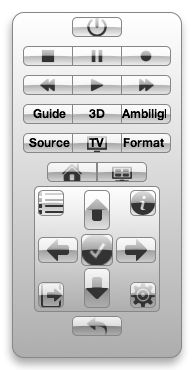
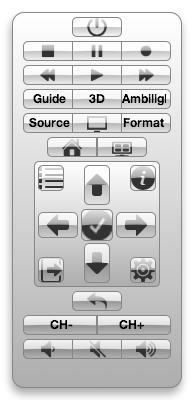
Added channel and sound buttons

diff --git a/philips-remote.dcproj/project/widget.wdgt/main.html b/philips-remote.dcproj/project/widget.wdgt/main.html
@@ -8,6 +8,7 @@
     <link rel="stylesheet" href="main.css">
     <script type="text/javascript" src="Parts/parts.js" charset="utf-8"></script>
     <script type="text/javascript" src="localizedStrings.js" charset="utf-8"></script>
+    <script type="text/javascript" src="rc.js" charset="utf-8"></script>
     <script type="text/javascript" src="main.js" charset="utf-8"></script>
 </head>
 <body onload="load();" apple-part="com.apple.Dashcode.part.StackLayout">
@@ -15,7 +16,6 @@
         <img id="frontImg" src="Parts/Images/front.png" alt="" apple-locked="true" apple-part="com.apple.Dashcode.part.frontimage" apple-style="image-theme: 1; image-shape: 3; image-opacity: 1.00; image-top-color: 1.0000,1.0000,1.0000; image-bottom-color: 0.6154,0.6154,0.6154; image-radius: 12,12,12,12; image-border: 1; image-border-color: 0.5294,0.5294,0.5294; image-border-width: 1; shine-strength: 0.9; shine-alpha-level: 0.67; shine-height: 0.50; glass-arc-height: 0.06; shadow-include-shadow: 1; shadow-blur: 9.00; shadow-offset: -1.00,-6.00; shadow-color: 0.0000,0.0000,0.0000,0.3333;">
         <div id="rectangleShape" apple-part="com.apple.Dashcode.part.roundedrectangleshape" class="apple-no-children" apple-style="image-theme: 1; image-shape: 3; image-button-type: 3; image-opacity: 1.00; image-top-color: 1,1,1,1; image-bottom-color: 0.6154,0.6154,0.6154,1; image-radius: 5,5,5,5; image-border: 1; image-border-color: 0.5294,0.5294,0.5294,1; image-border-width: 1; shine-strength: 0.90; shine-alpha-level: 0.67; shine-height: 0.50; glass-arc-height: 0.06; embossed-on: 0; embossed-depth: 1; embossed-shadow: 0.68; embossed-highlight: 0.3; shadow-include-shadow: 0;"></div>
         <div class="apple-no-children" id="info" apple-part="com.apple.Dashcode.part.infobutton" apple-default-image-visibility="hidden"></div>
-        <div id="extend" apple-part="com.apple.Dashcode.part.infobutton" class="info apple-no-children" apple-default-image-visibility="hidden"></div>
         <div id="box0" apple-part="com.apple.Dashcode.part.box">
             <div id="bPower" apple-part="com.apple.Dashcode.part.roundedtextbutton" class="apple-no-children" apple-style="image-theme: 2; image-shape: 3; image-button-type: 0; image-opacity: 1.00; image-top-color: 1,1,1,1; image-bottom-color: 0.6154,0.6154,0.6154,1; image-radius: 5,5,5,5; image-border: 1; image-border-color: 0.5294,0.5294,0.5294,1; image-border-width: 1; shine-on: 1; shine-strength: 0.90; shine-alpha-level: 0.67; shine-height: 0.50; glass-arc-height: 0.06; image-include-custom: 1; image-custom-image-path: bP.png; image-custom-center: 1; image-custom-resize: 2; shadow-include-shadow: 0;"></div>
         </div>
@@ -43,10 +43,7 @@
             <div id="bLeft5" apple-part="com.apple.Dashcode.part.roundedleftbutton" class="apple-no-children" apple-style="image-theme: 2; image-shape: 5; image-button-type: 0; image-opacity: 1.00; image-top-color: 1,1,1,1; image-bottom-color: 0.6154,0.6154,0.6154,1; image-radius: 5,-1,5,-1; image-border: 1; image-border-color: 0.5294,0.5294,0.5294,1; image-border-width: 1; shine-on: 1; shine-strength: 0.90; shine-alpha-level: 0.67; shine-height: 0.50; glass-arc-height: 0.06; embossed-on: 0; embossed-depth: 1; embossed-shadow: 0.68; embossed-highlight: 0.3; image-include-custom: 1; image-custom-image-path: bLeft5.png; image-custom-center: 1; image-custom-resize: 2; shadow-include-shadow: 0;"></div>
             <div id="bRight5" apple-part="com.apple.Dashcode.part.roundedrightbutton" class="apple-no-children" apple-style="image-theme: 2; image-shape: 6; image-button-type: 0; image-opacity: 1.00; image-top-color: 1,1,1,1; image-bottom-color: 0.6154,0.6154,0.6154,1; image-radius: -1,5,-1,5; image-border: 1; image-border-color: 0.5294,0.5294,0.5294,1; image-border-width: 1; shine-on: 1; shine-strength: 0.90; shine-alpha-level: 0.67; shine-height: 0.50; glass-arc-height: 0.06; image-include-custom: 1; image-custom-image-path: bRight5.png; image-custom-center: 1; image-custom-resize: 2; shadow-include-shadow: 0;"></div>
         </div>
-        <div id="box6" apple-part="com.apple.Dashcode.part.box">
-            <div id="bBack" apple-part="com.apple.Dashcode.part.roundedtextbutton" class="apple-no-children" apple-style="image-theme: 2; image-shape: 3; image-button-type: 0; image-opacity: 1.00; image-top-color: 1,1,1,1; image-bottom-color: 0.6154,0.6154,0.6154,1; image-radius: 5,5,5,5; image-border: 1; image-border-color: 0.5294,0.5294,0.5294,1; image-border-width: 1; shine-on: 1; shine-strength: 0.90; shine-alpha-level: 0.67; shine-height: 0.50; glass-arc-height: 0.06; image-include-custom: 1; image-custom-image-path: bP1.png; image-custom-center: 1; image-custom-resize: 2; shadow-include-shadow: 0;"></div>
-        </div>
-        <div id="box7" apple-part="com.apple.Dashcode.part.roundedbox">
+        <div id="box6" apple-part="com.apple.Dashcode.part.roundedbox">
             <div id="bUp" apple-part="com.apple.Dashcode.part.roundedtextbutton" class="apple-no-children" apple-style="image-theme: 2; image-shape: 3; image-button-type: 0; image-opacity: 1.00; image-top-color: 1,1,1,1; image-bottom-color: 0.6154,0.6154,0.6154,1; image-radius: 5,5,5,5; image-border: 1; image-border-color: 0.5294,0.5294,0.5294,1; image-border-width: 1; shine-on: 1; shine-strength: 0.90; shine-alpha-level: 0.67; shine-height: 0.50; glass-arc-height: 0.06; embossed-on: 0; embossed-depth: 1; embossed-shadow: 0.68; embossed-highlight: 0.3; image-include-custom: 1; image-custom-image-path: button1.png; image-custom-center: 1; image-custom-resize: 2; shadow-include-shadow: 0;"></div>
             <div id="bRight" apple-part="com.apple.Dashcode.part.roundedtextbutton" class="apple-no-children" apple-style="image-theme: 2; image-shape: 3; image-button-type: 0; image-opacity: 1.00; image-top-color: 1,1,1,1; image-bottom-color: 0.6154,0.6154,0.6154,1; image-radius: 5,5,5,5; image-border: 1; image-border-color: 0.5294,0.5294,0.5294,1; image-border-width: 1; shine-on: 1; shine-strength: 0.90; shine-alpha-level: 0.67; shine-height: 0.50; glass-arc-height: 0.06; image-include-custom: 1; image-custom-image-path: button2 1.png; image-custom-center: 1; image-custom-resize: 2; shadow-include-shadow: 0;"></div>
             <div id="bDown" apple-part="com.apple.Dashcode.part.roundedtextbutton" class="apple-no-children" apple-style="image-theme: 2; image-shape: 3; image-button-type: 0; image-opacity: 1.00; image-top-color: 1,1,1,1; image-bottom-color: 0.6154,0.6154,0.6154,1; image-radius: 5,5,5,5; image-border: 1; image-border-color: 0.5294,0.5294,0.5294,1; image-border-width: 1; shine-on: 1; shine-strength: 0.90; shine-alpha-level: 0.67; shine-height: 0.50; glass-arc-height: 0.06; image-include-custom: 1; image-custom-image-path: button3.png; image-custom-center: 1; image-custom-resize: 2; shadow-include-shadow: 0;"></div>
@@ -56,6 +53,18 @@
             <div id="bOptions" apple-part="com.apple.Dashcode.part.roundedtextbutton" class="apple-no-children" apple-style="image-theme: 2; image-shape: 3; image-button-type: 0; image-opacity: 1.00; image-top-color: 0.6154,0.6154,0.6154,1; image-bottom-color: 1,1,1,1; image-radius: 5,5,5,5; image-border: 1; image-border-color: 0.5294,0.5294,0.5294,1; image-border-width: 1; shine-on: 1; shine-strength: 0.90; shine-alpha-level: 0.67; shine-height: 0.50; glass-arc-height: 0.06; image-include-custom: 1; image-custom-image-path: bOptions.png; image-custom-center: 1; image-custom-resize: 2; shadow-include-shadow: 0;"></div>
             <div id="bExit" apple-part="com.apple.Dashcode.part.roundedtextbutton" class="apple-no-children" apple-style="image-theme: 2; image-shape: 3; image-button-type: 0; image-opacity: 1.00; image-top-color: 0.6154,0.6154,0.6154,1; image-bottom-color: 1,1,1,1; image-radius: 5,5,5,5; image-border: 1; image-border-color: 0.5294,0.5294,0.5294,1; image-border-width: 1; shine-on: 1; shine-strength: 0.90; shine-alpha-level: 0.67; shine-height: 0.50; glass-arc-height: 0.06; image-include-custom: 1; image-custom-image-path: bExit.png; image-custom-center: 1; image-custom-resize: 2; shadow-include-shadow: 0;"></div>
             <div id="bList" apple-part="com.apple.Dashcode.part.roundedtextbutton" class="apple-no-children" apple-style="image-theme: 2; image-shape: 3; image-button-type: 0; image-opacity: 1.00; image-top-color: 0.6154,0.6154,0.6154,1; image-bottom-color: 1,1,1,1; image-radius: 5,5,5,5; image-border: 1; image-border-color: 0.5294,0.5294,0.5294,1; image-border-width: 1; shine-on: 1; shine-strength: 0.90; shine-alpha-level: 0.67; shine-height: 0.50; glass-arc-height: 0.06; image-include-custom: 1; image-custom-image-path: bList.png; image-custom-center: 1; image-custom-resize: 2; shadow-include-shadow: 0;"></div>
+        </div>
+        <div id="box7" apple-part="com.apple.Dashcode.part.box">
+            <div id="bBack" apple-part="com.apple.Dashcode.part.roundedtextbutton" class="apple-no-children" apple-style="image-theme: 2; image-shape: 3; image-button-type: 0; image-opacity: 1.00; image-top-color: 1,1,1,1; image-bottom-color: 0.6154,0.6154,0.6154,1; image-radius: 5,5,5,5; image-border: 1; image-border-color: 0.5294,0.5294,0.5294,1; image-border-width: 1; shine-on: 1; shine-strength: 0.90; shine-alpha-level: 0.67; shine-height: 0.50; glass-arc-height: 0.06; image-include-custom: 1; image-custom-image-path: bP1.png; image-custom-center: 1; image-custom-resize: 2; shadow-include-shadow: 0;"></div>
+        </div>
+        <div id="box8" apple-part="com.apple.Dashcode.part.box">
+            <div id="bLeft8" apple-part="com.apple.Dashcode.part.roundedleftbutton" class="apple-no-children" apple-style="image-theme: 2; image-shape: 5; image-button-type: 0; image-opacity: 1.00; image-top-color: 1,1,1,1; image-bottom-color: 0.6154,0.6154,0.6154,1; image-radius: 5,-1,5,-1; image-border: 1; image-border-color: 0.5294,0.5294,0.5294,1; image-border-width: 1; shine-on: 1; shine-strength: 0.90; shine-alpha-level: 0.67; shine-height: 0.50; glass-arc-height: 0.06; embossed-on: 0; embossed-depth: 1; embossed-shadow: 0.68; embossed-highlight: 0.3; image-include-custom: 1; shadow-include-shadow: 0;"></div>
+            <div id="bRight8" apple-part="com.apple.Dashcode.part.roundedrightbutton" class="apple-no-children" apple-style="image-theme: 2; image-shape: 6; image-button-type: 0; image-opacity: 1.00; image-top-color: 1,1,1,1; image-bottom-color: 0.6154,0.6154,0.6154,1; image-radius: -1,5,-1,5; image-border: 1; image-border-color: 0.5294,0.5294,0.5294,1; image-border-width: 1; shine-on: 1; shine-strength: 0.90; shine-alpha-level: 0.67; shine-height: 0.50; glass-arc-height: 0.06; image-include-custom: 1; shadow-include-shadow: 0;"></div>
+        </div>
+        <div id="box9" apple-part="com.apple.Dashcode.part.box">
+            <div id="bLeft9" apple-part="com.apple.Dashcode.part.roundedleftbutton" class="apple-no-children" apple-style="image-theme: 2; image-shape: 5; image-button-type: 0; image-opacity: 1.00; image-top-color: 1,1,1,1; image-bottom-color: 0.6154,0.6154,0.6154,1; image-radius: 5,-1,5,-1; image-border: 1; image-border-color: 0.5294,0.5294,0.5294,1; image-border-width: 1; shine-on: 1; shine-strength: 0.90; shine-alpha-level: 0.67; shine-height: 0.50; glass-arc-height: 0.06; embossed-on: 0; embossed-depth: 1; embossed-shadow: 0.68; embossed-highlight: 0.3; image-include-custom: 1; image-custom-image-path: bLeft9.png; image-custom-center: 1; image-custom-resize: 2; shadow-include-shadow: 0;"></div>
+            <div id="bRight9" apple-part="com.apple.Dashcode.part.roundedrightbutton" class="apple-no-children" apple-style="image-theme: 2; image-shape: 6; image-button-type: 0; image-opacity: 1.00; image-top-color: 1,1,1,1; image-bottom-color: 0.6154,0.6154,0.6154,1; image-radius: -1,5,-1,5; image-border: 1; image-border-color: 0.5294,0.5294,0.5294,1; image-border-width: 1; shine-on: 1; shine-strength: 0.90; shine-alpha-level: 0.67; shine-height: 0.50; glass-arc-height: 0.06; image-include-custom: 1; image-custom-image-path: bRight9.png; image-custom-center: 1; image-custom-resize: 2; shadow-include-shadow: 0;"></div>
+            <div id="bMid9" apple-part="com.apple.Dashcode.part.roundedtextbutton" class="apple-no-children" apple-style="image-theme: 2; image-shape: 3; image-button-type: 0; image-opacity: 1.00; image-top-color: 1,1,1,1; image-bottom-color: 0.6154,0.6154,0.6154,1; image-radius: 0,0,0,0; image-border: 1; image-border-color: 0.5294,0.5294,0.5294,1; image-border-width: 1; shine-on: 1; shine-strength: 0.90; shine-alpha-level: 0.67; shine-height: 0.50; glass-arc-height: 0.06; image-include-custom: 1; image-custom-image-path: bMid9 1.png; image-custom-center: 1; image-custom-resize: 2; shadow-include-shadow: 0;"></div>
         </div>
     </div>
     <div id="back">

diff --git a/philips-remote.dcproj/project/widget.wdgt/main.css b/philips-remote.dcproj/project/widget.wdgt/main.css
@@ -52,11 +52,10 @@ body {
 
 #backDevelopedWith {
     position: absolute;
-    top: 67px;
-    left: 65px;
+    top: 39px;
     width: 150px;
     height: 49px;
-    margin-left: auto;
+    left: 23px;
     margin-right: auto;
 }
 
@@ -98,7 +97,7 @@ body {
     position: absolute;
     left: 34px;
     right: auto;
-    top: 186px;
+    top: 161px;
 }
 
 #box1 {
@@ -108,7 +107,7 @@ body {
     height: 30px;
     position: absolute;
     left: 13px;
-    top: 41px;
+    top: 36px;
     margin-top: 0px;
 }
 
@@ -134,7 +133,7 @@ body {
     height: 30px;
     position: absolute;
     left: 13px;
-    top: 70px;
+    top: 60px;
     margin-top: 0px;
 }
 
@@ -192,7 +191,7 @@ body {
     height: 30px;
     position: absolute;
     left: 13px;
-    top: 99px;
+    top: 84px;
     margin-top: 0px;
 }
 
@@ -251,7 +250,7 @@ body {
     height: 30px;
     position: absolute;
     left: 13px;
-    top: 128px;
+    top: 108px;
     margin-top: 0px;
 }
 
@@ -335,7 +334,7 @@ body {
     height: 30px;
     position: absolute;
     left: 13px;
-    top: 157px;
+    top: 132px;
     margin-top: 0px;
 }
 
@@ -371,14 +370,14 @@ body {
     cursor: default;
 }
 
-#box6 {
+#box7 {
     border-color: black;
     border-width: 1px;
     width: 168px;
     height: 30px;
     position: absolute;
     left: 13px;
-    top: 311px;
+    top: 286px;
 }
 
 #bBack {
@@ -396,7 +395,7 @@ body {
     margin-top: 0px;
 }
 
-#box7 {
+#box6 {
     border-width: 1px;
     border-color: rgb(172, 172, 172);
     border-top-left-radius: 8px;
@@ -407,7 +406,7 @@ body {
     height: 118px;
     position: absolute;
     left: 38px;
-    top: 190px;
+    top: 165px;
     right: 0px;
     margin-top: 0px;
 }
@@ -490,17 +489,6 @@ body {
     margin-top: 0px;
 }
 
-#extend {
-    width: 13px;
-    height: 13px;
-    position: absolute;
-    left: 15px;
-    top: 339px;
-    right: auto;
-    bottom: auto;
-    margin-top: 0px;
-}
-
 #bInfo {
     font-family: HelveticaNeue-Bold;
     font-size: 12px;
@@ -564,4 +552,106 @@ body {
     top: 0px;
     margin-top: 0px;
     min-height: 26px;
+}
+
+#box8 {
+    border-width: 3px !important;
+    border-color: black;
+    width: 168px;
+    height: 30px;
+    position: absolute;
+    left: 13px;
+    top: 310px;
+    margin-top: 0px;
+}
+
+#bLeft8 {
+    font-family: HelveticaNeue-Bold;
+    font-size: 12px;
+    text-align: center;
+    width: 74px;
+    height: 20px;
+    cursor: default;
+    -khtml-user-select: none;
+    position: absolute;
+    left: 10px;
+    top: 5px;
+    right: auto;
+    bottom: auto;
+    margin-top: 0px;
+}
+
+#bRight8 {
+    font-family: HelveticaNeue-Bold;
+    font-size: 12px;
+    text-align: center;
+    width: 74px;
+    height: 20px;
+    -khtml-user-select: none;
+    position: absolute;
+    left: 84px;
+    top: 5px;
+    right: auto;
+    bottom: auto;
+    margin-top: 0px;
+    cursor: default;
+}
+
+#box9 {
+    border-width: 3px !important;
+    border-color: black;
+    width: 168px;
+    height: 30px;
+    position: absolute;
+    left: 13px;
+    top: 334px;
+    margin-top: 0px;
+}
+
+#bLeft9 {
+    font-family: HelveticaNeue-Bold;
+    font-size: 12px;
+    text-align: center;
+    width: 50px;
+    height: 20px;
+    cursor: default;
+    -khtml-user-select: none;
+    position: absolute;
+    left: 10px;
+    top: 5px;
+    right: auto;
+    bottom: auto;
+    margin-top: 0px;
+}
+
+#bRight9 {
+    font-family: HelveticaNeue-Bold;
+    font-size: 12px;
+    text-align: center;
+    width: 50px;
+    height: 20px;
+    -khtml-user-select: none;
+    position: absolute;
+    left: 108px;
+    top: 5px;
+    right: auto;
+    bottom: auto;
+    margin-top: 0px;
+    cursor: default;
+    opacity: 1;
+}
+
+#bMid9 {
+    font-family: HelveticaNeue-Bold;
+    font-size: 12px;
+    text-align: center;
+    width: 50px;
+    cursor: default;
+    -khtml-user-select: none;
+    height: 20px;
+    position: absolute;
+    left: 59px;
+    top: 5px;
+    right: auto;
+    margin-top: 0px;
 }

diff --git a/philips-remote.dcproj/project/widget.wdgt/Parts/setup.js b/philips-remote.dcproj/project/widget.wdgt/Parts/setup.js
@@ -15,11 +15,14 @@ var dashcodePartSpecs = {
     "bLeft3": { "creationFunction": "CreateButton", "leftImageWidth": 5, "rightImageWidth": 1, "text": "Guide" },
     "bLeft4": { "creationFunction": "CreateButton", "leftImageWidth": 5, "rightImageWidth": 1, "text": "Source" },
     "bLeft5": { "creationFunction": "CreateButton", "leftImageWidth": 5, "rightImageWidth": 1 },
+    "bLeft8": { "creationFunction": "CreateButton", "leftImageWidth": 5, "rightImageWidth": 1, "text": "CH-" },
+    "bLeft9": { "creationFunction": "CreateButton", "leftImageWidth": 5, "rightImageWidth": 1 },
     "bList": { "creationFunction": "CreateButton", "leftImageWidth": 5, "rightImageWidth": 5 },
     "bMid1": { "creationFunction": "CreateButton", "leftImageWidth": 1, "rightImageWidth": 1 },
     "bMid2": { "creationFunction": "CreateButton", "leftImageWidth": 1, "rightImageWidth": 1 },
     "bMid3": { "creationFunction": "CreateButton", "leftImageWidth": 1, "rightImageWidth": 1, "text": "3D" },
-    "bMid4": { "creationFunction": "CreateButton", "leftImageWidth": 1, "rightImageWidth": 1, "text": "TV" },
+    "bMid4": { "creationFunction": "CreateButton", "leftImageWidth": 1, "rightImageWidth": 1 },
+    "bMid9": { "creationFunction": "CreateButton", "leftImageWidth": 1, "rightImageWidth": 1 },
     "bOk": { "creationFunction": "CreateButton", "leftImageWidth": 5, "rightImageWidth": 5 },
     "bOptions": { "creationFunction": "CreateButton", "leftImageWidth": 5, "rightImageWidth": 5 },
     "bPower": { "creationFunction": "CreateButton", "leftImageWidth": 5, "rightImageWidth": 5 },
@@ -29,9 +32,10 @@ var dashcodePartSpecs = {
     "bRight3": { "creationFunction": "CreateButton", "leftImageWidth": 1, "rightImageWidth": 5, "text": "Ambilight" },
     "bRight4": { "creationFunction": "CreateButton", "leftImageWidth": 1, "rightImageWidth": 5, "text": "Format" },
     "bRight5": { "creationFunction": "CreateButton", "leftImageWidth": 1, "rightImageWidth": 5 },
+    "bRight8": { "creationFunction": "CreateButton", "leftImageWidth": 1, "rightImageWidth": 5, "text": "CH+" },
+    "bRight9": { "creationFunction": "CreateButton", "leftImageWidth": 1, "rightImageWidth": 5 },
     "bUp": { "creationFunction": "CreateButton", "leftImageWidth": 5, "rightImageWidth": 5 },
     "done": { "creationFunction": "CreateGlassButton", "onclick": "showFront", "text": "Done" },
-    "extend": { "backgroundStyle": "black", "creationFunction": "CreateInfoButton", "foregroundStyle": "white", "frontID": "front", "onclick": "extendRC" },
     "info": { "backgroundStyle": "black", "creationFunction": "CreateInfoButton", "foregroundStyle": "white", "frontID": "front", "onclick": "showBack" },
     "rectangleShape": { "creationFunction": "CreateShape", "leftImageWidth": 5, "rightImageWidth": 5 }
 };

diff --git a/philips-remote.dcproj/project/widget.wdgt/main.js b/philips-remote.dcproj/project/widget.wdgt/main.js
@@ -113,4 +113,5 @@ if (window.widget) {
 function extendRC(event)
 {
     // ExtendRC with numeric pad
+    
 }
